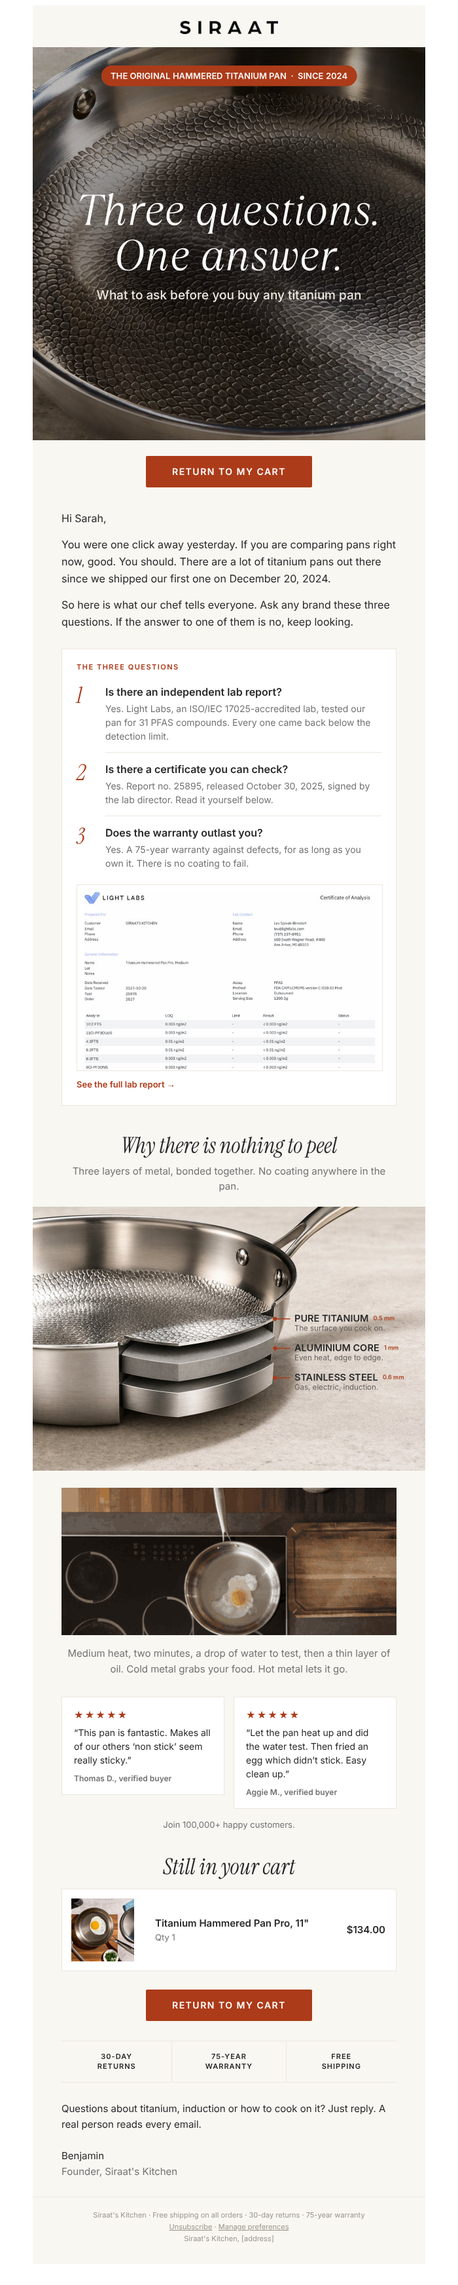
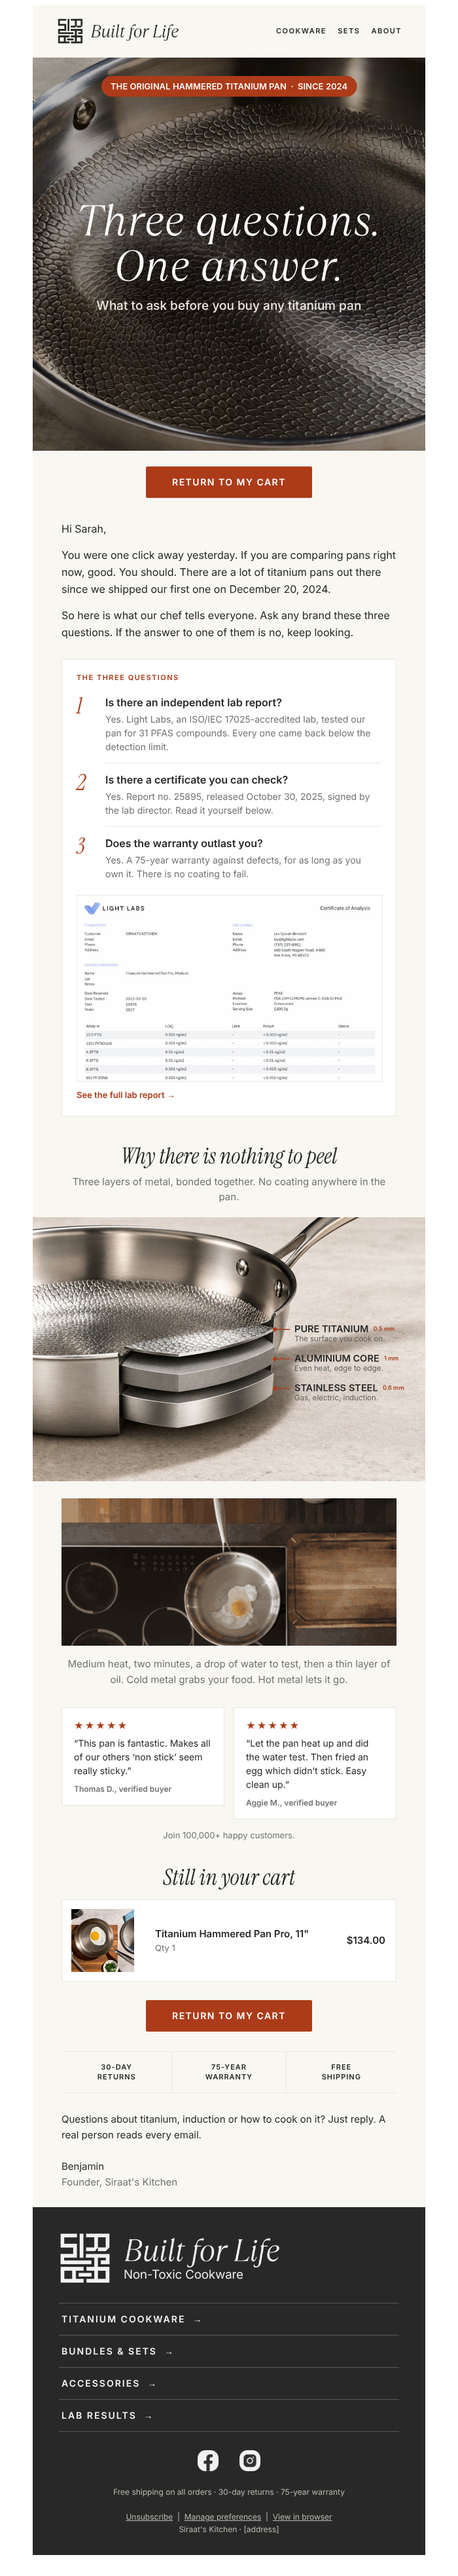
Vaste header en footer (partials) volgens design system; C2 bijgewerkt; PLAYBOOK
Claude-Session: https://claude.ai/code/session_01HjCaDE95ohEXY6DPZTSH67

diff --git a/klaviyo/templates/c2-why-siraat.klaviyo.html b/klaviyo/templates/c2-why-siraat.klaviyo.html
@@ -20,6 +20,7 @@
     .stack{display:block!important;width:100%!important;}
     .stackpad{padding:0 0 14px 0!important;}
     .h2{font-size:30px!important;line-height:34px!important;}
+    .navhide{display:none!important;}
     .desk{display:none!important;max-height:0!important;overflow:hidden!important;}
     .mob{display:block!important;max-height:none!important;overflow:visible!important;}
   }
@@ -31,10 +32,18 @@
 <tr><td align="center" style="padding:8px 0 32px 0;">
 <table role="presentation" class="w" width="600" cellpadding="0" cellspacing="0" border="0" style="width:600px;max-width:600px;background:#F8F7F2;" bgcolor="#F8F7F2">
 
-<!-- LOGO -->
-<tr><td align="center" style="padding:24px 0 20px 0;">
-  <a href="https://siraatskitchen.com"><img src="https://cdn.klaviyomail.com/company/TdtTzz/images/ebead5cb-ada1-43bd-9e30-d569170b4a2f.png" width="150" alt="Siraat's Kitchen" style="width:150px;height:auto;"></a>
+<!-- HEADER (vast, uit partials/header.html) -->
+<tr><td style="padding:18px 36px;background:#F8F7F2;border-bottom:1px solid #ECE7DD;" class="pad">
+  <table role="presentation" width="100%" cellpadding="0" cellspacing="0" border="0"><tr>
+    <td valign="middle"><a href="https://siraatskitchen.com"><img src="https://cdn.klaviyomail.com/company/TdtTzz/images/26026cc4-ddc6-4a08-b386-eb84e0c5203f.png" width="190" alt="Siraat · Built for Life" style="width:190px;height:auto;"></a></td>
+    <td valign="middle" align="right" class="navhide" style="font-family:Inter,Arial,Helvetica,sans-serif;font-size:11px;line-height:14px;letter-spacing:1.5px;font-weight:600;white-space:nowrap;">
+      <a href="https://siraatskitchen.com/collections/cookware" style="color:#282828;text-decoration:none;">COOKWARE</a>&nbsp;&nbsp;&nbsp;
+      <a href="https://siraatskitchen.com/collections/bundles" style="color:#282828;text-decoration:none;">SETS</a>&nbsp;&nbsp;&nbsp;
+      <a href="https://siraatskitchen.com/pages/faq" style="color:#282828;text-decoration:none;">ABOUT</a>
+    </td>
+  </tr></table>
 </td></tr>
+
 
 <!-- HERO: shoot photo + TT Ramillas headline baked in -->
 <tr><td style="padding:0;">
@@ -191,12 +200,26 @@
   Benjamin<br><span style="color:#727272;">Founder, Siraat's Kitchen</span>
 </td></tr>
 
-<!-- FOOTER -->
-<tr><td align="center" class="pad" style="padding:18px 44px 30px 44px;border-top:1px solid #ECE7DD;font-family:Inter,Arial,Helvetica,sans-serif;font-size:11px;line-height:18px;color:#9A948B;">
-  Siraat's Kitchen &middot; Free shipping on all orders &middot; 30-day returns &middot; 75-year warranty<br>
-  {% unsubscribe 'Unsubscribe' %} &middot; <a href="{% manage_preferences_url %}" style="color:#9A948B;">Manage preferences</a><br>
-  {{ organization.name }}, {{ organization.full_address }}
+<!-- FOOTER (vast, uit partials/footer.html) -->
+<tr><td class="pad" style="padding:38px 40px 30px 40px;background:#282828;">
+  <a href="https://siraatskitchen.com"><img src="https://cdn.klaviyomail.com/company/TdtTzz/images/a8147e34-e187-4926-9437-df437c637bc7.png" width="340" alt="Siraat · Built for Life · Non-Toxic Cookware" style="width:340px;max-width:100%;height:auto;"></a>
+  <table role="presentation" width="100%" cellpadding="0" cellspacing="0" border="0" style="margin-top:28px;">
+    <tr><td style="border-top:1px solid #5A5856;padding:15px 4px;"><a href="https://siraatskitchen.com/collections/cookware" style="font-family:Inter,Arial,Helvetica,sans-serif;font-size:14px;letter-spacing:2px;font-weight:600;color:#F2F2F2;text-decoration:none;">TITANIUM COOKWARE &nbsp;&rarr;</a></td></tr>
+    <tr><td style="border-top:1px solid #5A5856;padding:15px 4px;"><a href="https://siraatskitchen.com/collections/bundles" style="font-family:Inter,Arial,Helvetica,sans-serif;font-size:14px;letter-spacing:2px;font-weight:600;color:#F2F2F2;text-decoration:none;">BUNDLES &amp; SETS &nbsp;&rarr;</a></td></tr>
+    <tr><td style="border-top:1px solid #5A5856;padding:15px 4px;"><a href="https://siraatskitchen.com/collections/accessories" style="font-family:Inter,Arial,Helvetica,sans-serif;font-size:14px;letter-spacing:2px;font-weight:600;color:#F2F2F2;text-decoration:none;">ACCESSORIES &nbsp;&rarr;</a></td></tr>
+    <tr><td style="border-top:1px solid #5A5856;border-bottom:1px solid #5A5856;padding:15px 4px;"><a href="https://siraatskitchen.com/pages/third-party-testing" style="font-family:Inter,Arial,Helvetica,sans-serif;font-size:14px;letter-spacing:2px;font-weight:600;color:#F2F2F2;text-decoration:none;">LAB RESULTS &nbsp;&rarr;</a></td></tr>
+  </table>
+  <table role="presentation" cellpadding="0" cellspacing="0" border="0" align="center" style="margin:28px auto 22px auto;"><tr>
+    <td style="padding:0 16px;"><a href="https://www.facebook.com/siraatskitchen"><img src="https://cdn.klaviyomail.com/company/TdtTzz/images/17c00632-f9db-4dcd-a27e-bf0adc4987da.png" width="32" alt="Facebook" style="width:32px;height:32px;"></a></td>
+    <td style="padding:0 16px;"><a href="https://www.instagram.com/siraatskitchen"><img src="https://cdn.klaviyomail.com/company/TdtTzz/images/6b905e47-7bf9-4aec-a63b-0538ecc6bd60.png" width="32" alt="Instagram" style="width:32px;height:32px;"></a></td>
+  </tr></table>
+  <div style="font-family:Inter,Arial,Helvetica,sans-serif;font-size:12px;line-height:19px;color:#BDB8B0;text-align:center;">
+    Free shipping on all orders &middot; 30-day returns &middot; 75-year warranty<br><br>
+    {% unsubscribe 'Unsubscribe' %} &nbsp;|&nbsp; <a href="{% manage_preferences_url %}" style="color:#BDB8B0;">Manage preferences</a> &nbsp;|&nbsp; {% web_view 'View in browser' %}<br>
+    {{ organization.name }} &middot; {{ organization.full_address }}
+  </div>
 </td></tr>
+
 
 </table>
 </td></tr>

diff --git a/klaviyo/templates/c2-preview.html b/klaviyo/templates/c2-preview.html
@@ -20,6 +20,7 @@
     .stack{display:block!important;width:100%!important;}
     .stackpad{padding:0 0 14px 0!important;}
     .h2{font-size:30px!important;line-height:34px!important;}
+    .navhide{display:none!important;}
     .desk{display:none!important;max-height:0!important;overflow:hidden!important;}
     .mob{display:block!important;max-height:none!important;overflow:visible!important;}
   }
@@ -31,10 +32,18 @@
 <tr><td align="center" style="padding:8px 0 32px 0;">
 <table role="presentation" class="w" width="600" cellpadding="0" cellspacing="0" border="0" style="width:600px;max-width:600px;background:#F8F7F2;" bgcolor="#F8F7F2">
 
-<!-- LOGO -->
-<tr><td align="center" style="padding:24px 0 20px 0;">
-  <a href="https://siraatskitchen.com"><img src="c2-assets/logo.png" width="150" alt="Siraat's Kitchen" style="width:150px;height:auto;"></a>
+<!-- HEADER (vast, uit partials/header.html) -->
+<tr><td style="padding:18px 36px;background:#F8F7F2;border-bottom:1px solid #ECE7DD;" class="pad">
+  <table role="presentation" width="100%" cellpadding="0" cellspacing="0" border="0"><tr>
+    <td valign="middle"><a href="https://siraatskitchen.com"><img src="c2-assets/header-brand.png" width="190" alt="Siraat · Built for Life" style="width:190px;height:auto;"></a></td>
+    <td valign="middle" align="right" class="navhide" style="font-family:Inter,Arial,Helvetica,sans-serif;font-size:11px;line-height:14px;letter-spacing:1.5px;font-weight:600;white-space:nowrap;">
+      <a href="https://siraatskitchen.com/collections/cookware" style="color:#282828;text-decoration:none;">COOKWARE</a>&nbsp;&nbsp;&nbsp;
+      <a href="https://siraatskitchen.com/collections/bundles" style="color:#282828;text-decoration:none;">SETS</a>&nbsp;&nbsp;&nbsp;
+      <a href="https://siraatskitchen.com/pages/faq" style="color:#282828;text-decoration:none;">ABOUT</a>
+    </td>
+  </tr></table>
 </td></tr>
+
 
 <!-- HERO: shoot photo + TT Ramillas headline baked in -->
 <tr><td style="padding:0;">
@@ -191,12 +200,26 @@
   Benjamin<br><span style="color:#727272;">Founder, Siraat's Kitchen</span>
 </td></tr>
 
-<!-- FOOTER -->
-<tr><td align="center" class="pad" style="padding:18px 44px 30px 44px;border-top:1px solid #ECE7DD;font-family:Inter,Arial,Helvetica,sans-serif;font-size:11px;line-height:18px;color:#9A948B;">
-  Siraat's Kitchen &middot; Free shipping on all orders &middot; 30-day returns &middot; 75-year warranty<br>
-  <a href="#" style="color:#9A948B;">Unsubscribe</a> &middot; <a href="#" style="color:#9A948B;">Manage preferences</a><br>
-  Siraat's Kitchen, [address]
+<!-- FOOTER (vast, uit partials/footer.html) -->
+<tr><td class="pad" style="padding:38px 40px 30px 40px;background:#282828;">
+  <a href="https://siraatskitchen.com"><img src="c2-assets/footer-brand.png" width="340" alt="Siraat · Built for Life · Non-Toxic Cookware" style="width:340px;max-width:100%;height:auto;"></a>
+  <table role="presentation" width="100%" cellpadding="0" cellspacing="0" border="0" style="margin-top:28px;">
+    <tr><td style="border-top:1px solid #5A5856;padding:15px 4px;"><a href="https://siraatskitchen.com/collections/cookware" style="font-family:Inter,Arial,Helvetica,sans-serif;font-size:14px;letter-spacing:2px;font-weight:600;color:#F2F2F2;text-decoration:none;">TITANIUM COOKWARE &nbsp;&rarr;</a></td></tr>
+    <tr><td style="border-top:1px solid #5A5856;padding:15px 4px;"><a href="https://siraatskitchen.com/collections/bundles" style="font-family:Inter,Arial,Helvetica,sans-serif;font-size:14px;letter-spacing:2px;font-weight:600;color:#F2F2F2;text-decoration:none;">BUNDLES &amp; SETS &nbsp;&rarr;</a></td></tr>
+    <tr><td style="border-top:1px solid #5A5856;padding:15px 4px;"><a href="https://siraatskitchen.com/collections/accessories" style="font-family:Inter,Arial,Helvetica,sans-serif;font-size:14px;letter-spacing:2px;font-weight:600;color:#F2F2F2;text-decoration:none;">ACCESSORIES &nbsp;&rarr;</a></td></tr>
+    <tr><td style="border-top:1px solid #5A5856;border-bottom:1px solid #5A5856;padding:15px 4px;"><a href="https://siraatskitchen.com/pages/third-party-testing" style="font-family:Inter,Arial,Helvetica,sans-serif;font-size:14px;letter-spacing:2px;font-weight:600;color:#F2F2F2;text-decoration:none;">LAB RESULTS &nbsp;&rarr;</a></td></tr>
+  </table>
+  <table role="presentation" cellpadding="0" cellspacing="0" border="0" align="center" style="margin:28px auto 22px auto;"><tr>
+    <td style="padding:0 16px;"><a href="https://www.facebook.com/siraatskitchen"><img src="c2-assets/fb.png" width="32" alt="Facebook" style="width:32px;height:32px;"></a></td>
+    <td style="padding:0 16px;"><a href="https://www.instagram.com/siraatskitchen"><img src="c2-assets/ig.png" width="32" alt="Instagram" style="width:32px;height:32px;"></a></td>
+  </tr></table>
+  <div style="font-family:Inter,Arial,Helvetica,sans-serif;font-size:12px;line-height:19px;color:#BDB8B0;text-align:center;">
+    Free shipping on all orders &middot; 30-day returns &middot; 75-year warranty<br><br>
+    <a href="#" style="color:#BDB8B0;">Unsubscribe</a> &nbsp;|&nbsp; <a href="#" style="color:#BDB8B0;">Manage preferences</a> &nbsp;|&nbsp; <a href="#" style="color:#BDB8B0;">View in browser</a><br>
+    Siraat's Kitchen &middot; [address]
+  </div>
 </td></tr>
+
 
 </table>
 </td></tr>

diff --git a/klaviyo/templates/partials/footer.html b/klaviyo/templates/partials/footer.html
@@ -1,0 +1,19 @@
+<!-- FOOTER (vast, uit partials/footer.html) -->
+<tr><td class="pad" style="padding:38px 40px 30px 40px;background:#282828;">
+  <a href="https://siraatskitchen.com"><img src="{{IMG}}/footer-brand.png" width="340" alt="Siraat · Built for Life · Non-Toxic Cookware" style="width:340px;max-width:100%;height:auto;"></a>
+  <table role="presentation" width="100%" cellpadding="0" cellspacing="0" border="0" style="margin-top:28px;">
+    <tr><td style="border-top:1px solid #5A5856;padding:15px 4px;"><a href="https://siraatskitchen.com/collections/cookware" style="font-family:Inter,Arial,Helvetica,sans-serif;font-size:14px;letter-spacing:2px;font-weight:600;color:#F2F2F2;text-decoration:none;">TITANIUM COOKWARE &nbsp;&rarr;</a></td></tr>
+    <tr><td style="border-top:1px solid #5A5856;padding:15px 4px;"><a href="https://siraatskitchen.com/collections/bundles" style="font-family:Inter,Arial,Helvetica,sans-serif;font-size:14px;letter-spacing:2px;font-weight:600;color:#F2F2F2;text-decoration:none;">BUNDLES &amp; SETS &nbsp;&rarr;</a></td></tr>
+    <tr><td style="border-top:1px solid #5A5856;padding:15px 4px;"><a href="https://siraatskitchen.com/collections/accessories" style="font-family:Inter,Arial,Helvetica,sans-serif;font-size:14px;letter-spacing:2px;font-weight:600;color:#F2F2F2;text-decoration:none;">ACCESSORIES &nbsp;&rarr;</a></td></tr>
+    <tr><td style="border-top:1px solid #5A5856;border-bottom:1px solid #5A5856;padding:15px 4px;"><a href="https://siraatskitchen.com/pages/third-party-testing" style="font-family:Inter,Arial,Helvetica,sans-serif;font-size:14px;letter-spacing:2px;font-weight:600;color:#F2F2F2;text-decoration:none;">LAB RESULTS &nbsp;&rarr;</a></td></tr>
+  </table>
+  <table role="presentation" cellpadding="0" cellspacing="0" border="0" align="center" style="margin:28px auto 22px auto;"><tr>
+    <td style="padding:0 16px;"><a href="https://www.facebook.com/siraatskitchen"><img src="{{IMG}}/fb.png" width="32" alt="Facebook" style="width:32px;height:32px;"></a></td>
+    <td style="padding:0 16px;"><a href="https://www.instagram.com/siraatskitchen"><img src="{{IMG}}/ig.png" width="32" alt="Instagram" style="width:32px;height:32px;"></a></td>
+  </tr></table>
+  <div style="font-family:Inter,Arial,Helvetica,sans-serif;font-size:12px;line-height:19px;color:#BDB8B0;text-align:center;">
+    Free shipping on all orders &middot; 30-day returns &middot; 75-year warranty<br><br>
+    {% unsubscribe 'Unsubscribe' %} &nbsp;|&nbsp; <a href="{% manage_preferences_url %}" style="color:#BDB8B0;">Manage preferences</a> &nbsp;|&nbsp; {% web_view 'View in browser' %}<br>
+    {{ organization.name }} &middot; {{ organization.full_address }}
+  </div>
+</td></tr>

diff --git a/klaviyo/templates/c2-why-siraat.html b/klaviyo/templates/c2-why-siraat.html
@@ -20,6 +20,7 @@
     .stack{display:block!important;width:100%!important;}
     .stackpad{padding:0 0 14px 0!important;}
     .h2{font-size:30px!important;line-height:34px!important;}
+    .navhide{display:none!important;}
     .desk{display:none!important;max-height:0!important;overflow:hidden!important;}
     .mob{display:block!important;max-height:none!important;overflow:visible!important;}
   }
@@ -31,10 +32,7 @@
 <tr><td align="center" style="padding:8px 0 32px 0;">
 <table role="presentation" class="w" width="600" cellpadding="0" cellspacing="0" border="0" style="width:600px;max-width:600px;background:#F8F7F2;" bgcolor="#F8F7F2">
 
-<!-- LOGO -->
-<tr><td align="center" style="padding:24px 0 20px 0;">
-  <a href="https://siraatskitchen.com"><img src="{{IMG}}/logo.png" width="150" alt="Siraat's Kitchen" style="width:150px;height:auto;"></a>
-</td></tr>
+{{HEADER}}
 
 <!-- HERO: shoot photo + TT Ramillas headline baked in -->
 <tr><td style="padding:0;">
@@ -191,12 +189,7 @@
   Benjamin<br><span style="color:#727272;">Founder, Siraat's Kitchen</span>
 </td></tr>
 
-<!-- FOOTER -->
-<tr><td align="center" class="pad" style="padding:18px 44px 30px 44px;border-top:1px solid #ECE7DD;font-family:Inter,Arial,Helvetica,sans-serif;font-size:11px;line-height:18px;color:#9A948B;">
-  Siraat's Kitchen &middot; Free shipping on all orders &middot; 30-day returns &middot; 75-year warranty<br>
-  {% unsubscribe 'Unsubscribe' %} &middot; <a href="{% manage_preferences_url %}" style="color:#9A948B;">Manage preferences</a><br>
-  {{ organization.name }}, {{ organization.full_address }}
-</td></tr>
+{{FOOTER}}
 
 </table>
 </td></tr>

diff --git a/klaviyo/templates/partials/header.html b/klaviyo/templates/partials/header.html
@@ -1,0 +1,11 @@
+<!-- HEADER (vast, uit partials/header.html) -->
+<tr><td style="padding:18px 36px;background:#F8F7F2;border-bottom:1px solid #ECE7DD;" class="pad">
+  <table role="presentation" width="100%" cellpadding="0" cellspacing="0" border="0"><tr>
+    <td valign="middle"><a href="https://siraatskitchen.com"><img src="{{IMG}}/header-brand.png" width="190" alt="Siraat · Built for Life" style="width:190px;height:auto;"></a></td>
+    <td valign="middle" align="right" class="navhide" style="font-family:Inter,Arial,Helvetica,sans-serif;font-size:11px;line-height:14px;letter-spacing:1.5px;font-weight:600;white-space:nowrap;">
+      <a href="https://siraatskitchen.com/collections/cookware" style="color:#282828;text-decoration:none;">COOKWARE</a>&nbsp;&nbsp;&nbsp;
+      <a href="https://siraatskitchen.com/collections/bundles" style="color:#282828;text-decoration:none;">SETS</a>&nbsp;&nbsp;&nbsp;
+      <a href="https://siraatskitchen.com/pages/faq" style="color:#282828;text-decoration:none;">ABOUT</a>
+    </td>
+  </tr></table>
+</td></tr>

diff --git a/scripts/build_template.py b/scripts/build_template.py
@@ -4,7 +4,10 @@ Schrijft <bron>.klaviyo.html (CDN-links) en <bron-zonder-.html>-preview.html (lo
 import sys,re,os
 src,assets,urls=sys.argv[1:4]
 u=dict(l.split() for l in open(urls) if l.strip())
-h=open(src).read(); k=h
+h=open(src).read()
+P=os.path.join(os.path.dirname(os.path.abspath(src)),'partials')
+h=h.replace('{{HEADER}}',open(os.path.join(P,'header.html')).read()).replace('{{FOOTER}}',open(os.path.join(P,'footer.html')).read())
+k=h
 for a,b in sorted(u.items(),key=lambda x:-len(x[0])): k=k.replace('{{IMG}}/'+a,b)
 assert '{{IMG}}' not in k, 'ontbrekende CDN-link'
 base=src[:-5]; open(base+'.klaviyo.html','w').write(k)
@@ -14,5 +17,5 @@ if m:
     r=re.sub(r"\{\{ item.product.images.0.src[^}]*\}\}",os.path.basename(assets.rstrip('/'))+'/cart-fallback.jpg',m.group(1)).replace('{{ item.title }}','Titanium Hammered Pan Pro, 11"').replace('{{ item.quantity|floatformat:0 }}','1').replace('{{ item.line_price|floatformat:2 }}','134.00')
     p=p[:m.start()]+r+p[m.end():]
 p=re.sub(r"\{\{ first_name[^}]*\}\}",'Sarah',p);p=re.sub(r"\{\{ event[^}]*\}\}",'#',p)
-p=p.replace("{% unsubscribe 'Unsubscribe' %}",'<a href="#" style="color:#9A948B;">Unsubscribe</a>').replace('{% manage_preferences_url %}','#').replace('{{ organization.name }}',"Siraat's Kitchen").replace('{{ organization.full_address }}','[address]')
+p=p.replace("{% web_view 'View in browser' %}",'<a href="#" style="color:#BDB8B0;">View in browser</a>').replace("{% unsubscribe 'Unsubscribe' %}",'<a href="#" style="color:#BDB8B0;">Unsubscribe</a>').replace('{% manage_preferences_url %}','#').replace('{{ organization.name }}',"Siraat's Kitchen").replace('{{ organization.full_address }}','[address]')
 open(base+'-preview.html','w').write(p); print('ok',base)

diff --git a/PLAYBOOK.md b/PLAYBOOK.md
@@ -104,3 +104,5 @@ Let op: de brand guidelines (site) gebruiken Inter voor koppen en Terracotta #C7
 - Direct onder de hero de primaire knop (in checkout en cart: "Return to my cart"). Dezelfde knop nog één keer onderaan.
 - HTML en preview bouwen met `scripts/build_template.py`; beelden in de Klaviyo-bibliotheek, links in `<assets>/klaviyo-urls.txt`.
 - Beelden met labels krijgen op mobiel een aparte versie zonder labels plus live tekst eronder.
+- Header en footer zijn vast en komen uit `klaviyo/templates/partials/` (header.html, footer.html). In elke bron-template staan alleen `{{HEADER}}` en `{{FOOTER}}`; `scripts/build_template.py` vult ze in. Header: monogram + "Built for Life" (TT Ramillas, PNG) en navigatie Cookware, Sets, About (live tekst, verborgen op mobiel). Footer: donker #282828, monogram + "Built for Life / Non-Toxic Cookware", vier navigatieregels, Facebook en Instagram, claims-regel, unsubscribe, voorkeuren, webversie, adres.
+- Wijzig je header of footer, dan in de partial, en alle templates opnieuw bouwen.

diff --git a/LOG.md b/LOG.md
@@ -51,3 +51,4 @@ Nieuwste bovenaan. Elke regel: datum, wat er gedaan is, wat het opleverde of wat
 - 2026-10-07 · Baselines vastgelegd (baselines/, 90 dagen tot 6 okt): flows 10,8% van omzet, welcome $2,53 per nieuwe inschrijver, checkout-recovery 0,97%, campagnes tekst $0,118 vs beeld $0,080 per ontvanger, uitschrijf 0,54%, spam 0,042%. C2-voorbeeld in Figma kit (04 Samples).
 - 2026-10-07 · C2: getekende lagen vervangen door fotorealistische doorsnede (Higgsfield gpt_image_2_5 met shoot-foto P11-C als referentie, labels in Inter via scripts/label_anatomy.py). Mobiel: aparte uitsnede plus lagen als live tekst. Template Yn7nyJ bijgewerkt.
 - 2026-10-07 · C2: hero met kop en subregel exact gecentreerd (scripts/make_hero.py), knop Return to my cart direct onder de hero, build-script voor templates. Opbouw vastgelegd in PLAYBOOK hoofdstuk 10.
+- 2026-10-07 · Vaste header en footer als partials (monogram, Built for Life, Non-Toxic Cookware, navigatie, social, legal). C2 bijgewerkt (template Yn7nyJ).
